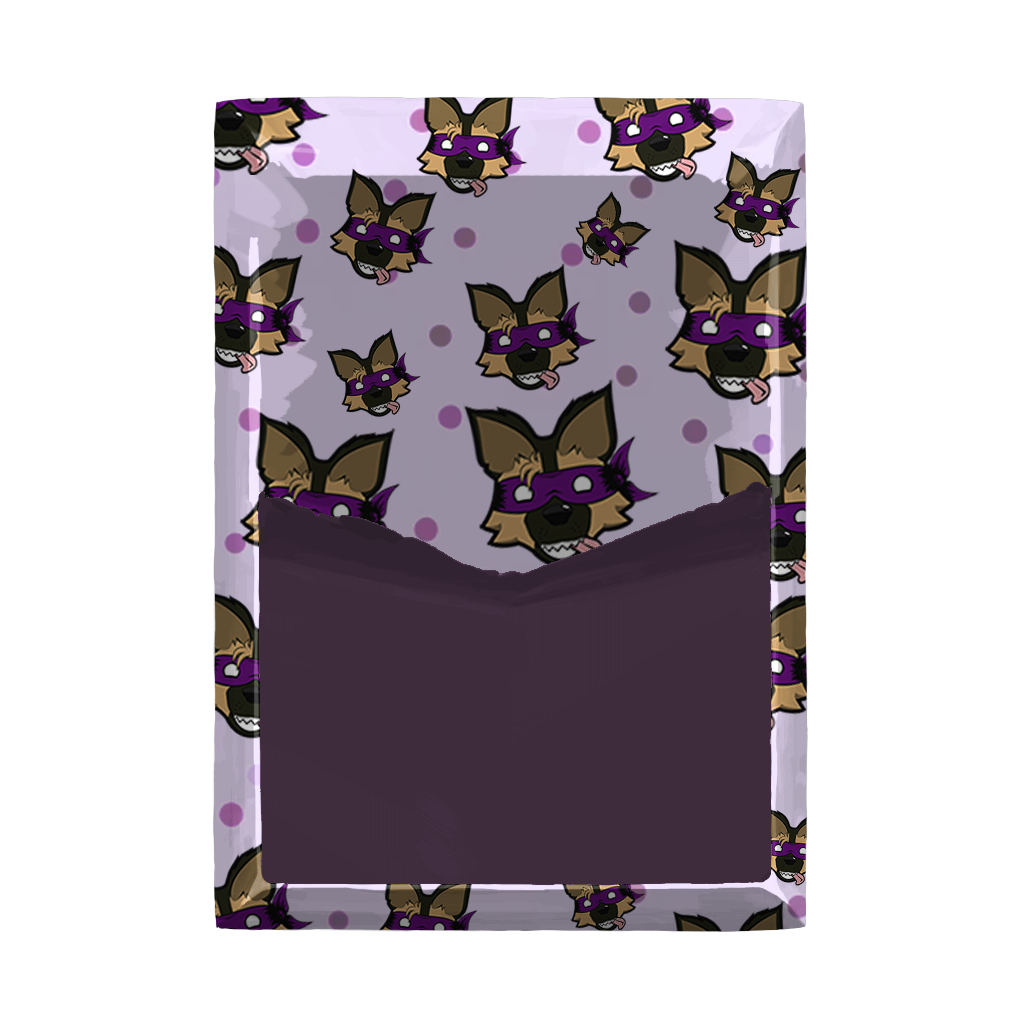
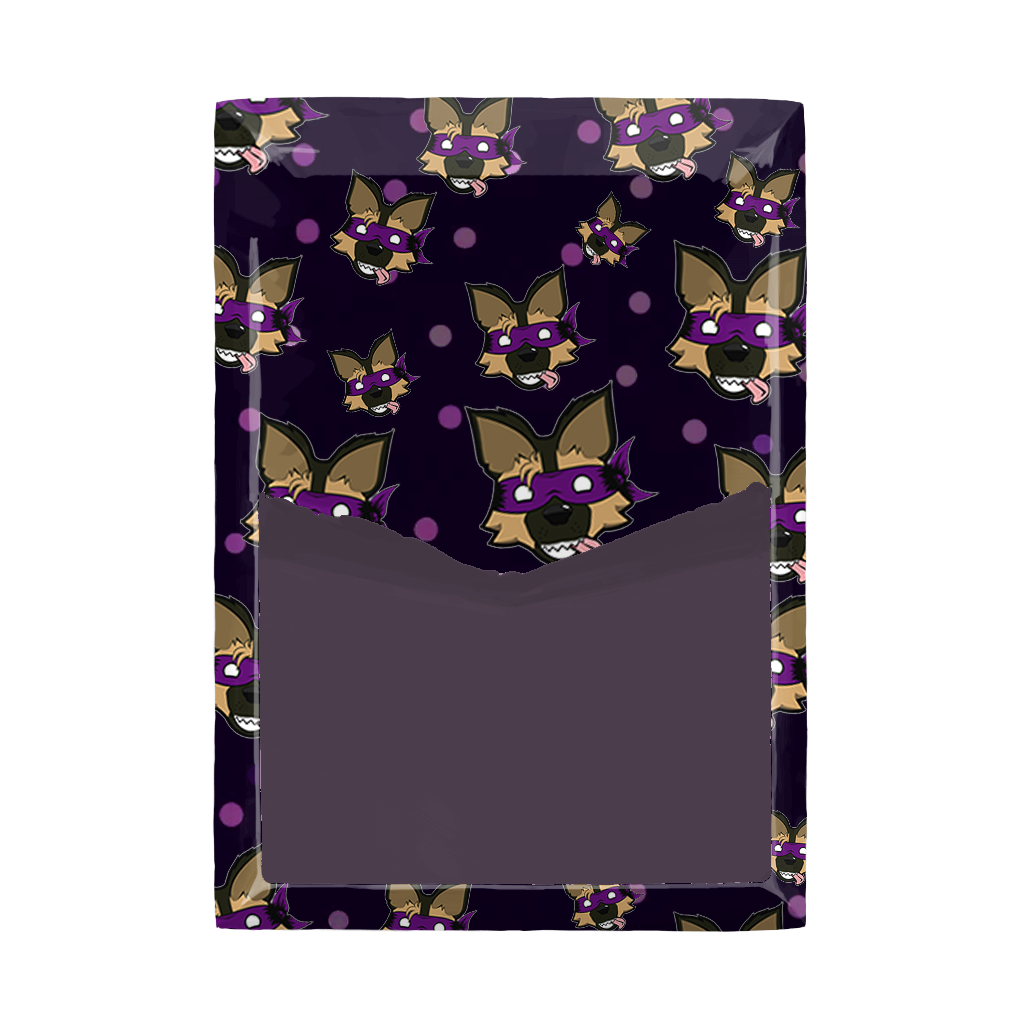
Pictures
I want card backs to work.

Changed region(s): [[0.1875, 0.0938, 0.8125, 0.9062]]

diff --git a/src/main/java/shadowtails/ModFile.java b/src/main/java/shadowtails/ModFile.java
@@ -63,14 +63,14 @@ public class ModFile implements
     public static final String SHOULDER1 = makeCharacterPath("mainChar/shoulder.png");
     public static final String SHOULDER2 = makeCharacterPath("mainChar/shoulder2.png");
     public static final String CORPSE = makeCharacterPath("mainChar/corpse.png");
-    private static final String ATTACK_S_ART = makeImagePath("512/attack.png");
-    private static final String SKILL_S_ART = makeImagePath("512/skill.png");
-    private static final String POWER_S_ART = makeImagePath("512/power.png");
+    private static String ATTACK_S_ART;
+    private static String SKILL_S_ART;
+    private static String POWER_S_ART;
+    private static String ATTACK_L_ART;
+    private static String SKILL_L_ART;
+    private static String POWER_L_ART;
     private static final String CARD_ENERGY_S = makeImagePath("512/energy.png");
     private static final String TEXT_ENERGY = makeImagePath("512/text_energy.png");
-    private static final String ATTACK_L_ART = makeImagePath("1024/attack.png");
-    private static final String SKILL_L_ART = makeImagePath("1024/skill.png");
-    private static final String POWER_L_ART = makeImagePath("1024/power.png");
     private static final String CARD_ENERGY_L = makeImagePath("1024/energy.png");
     private static final String CHARSELECT_BUTTON = makeImagePath("charSelect/charButton.png");
     private static final String CHARSELECT_PORTRAIT = makeImagePath("charSelect/charBG.png");
@@ -87,6 +87,32 @@ public class ModFile implements
         }
         return "eng";
     }
+    public static void setCardArtPaths(String cardPath) {
+        // Check the card path and set the art paths accordingly
+        if (cardPath.contains("adventurecat")) {
+            ATTACK_S_ART = makeImagePath("512/attack_cat.png");
+            SKILL_S_ART = makeImagePath("512/skill_cat.png");
+            POWER_S_ART = makeImagePath("512/power_cat.png");
+            ATTACK_L_ART = makeImagePath("1024/attack_cat2.png");
+            SKILL_L_ART = makeImagePath("1024/skill_cat2.png");
+            POWER_L_ART = makeImagePath("1024/power_cat2.png");
+        } else if (cardPath.contains("ninjapuppy")) {
+            ATTACK_S_ART = makeImagePath("512/attack_puppy.png");
+            SKILL_S_ART = makeImagePath("512/skill_puppy.png");
+            POWER_S_ART = makeImagePath("512/power_puppy.png");
+            ATTACK_L_ART = makeImagePath("1024/attack_puppy2.png");
+            SKILL_L_ART = makeImagePath("1024/skill_puppy2.png");
+            POWER_L_ART = makeImagePath("1024/power_puppy2.png");
+        } else {
+            ATTACK_S_ART = makeImagePath("512/attack.png");
+            SKILL_S_ART = makeImagePath("512/skill.png");
+            POWER_S_ART = makeImagePath("512/power.png");
+            ATTACK_L_ART = makeImagePath("1024/attack.png");
+            SKILL_L_ART = makeImagePath("1024/skill.png");
+            POWER_L_ART = makeImagePath("1024/power.png");
+        }
+    }
+
 
     public ModFile() {
         BaseMod.subscribe(this);

diff --git a/src/main/java/shadowtails/cards/ninjapuppy/StrikeNP.java b/src/main/java/shadowtails/cards/ninjapuppy/StrikeNP.java
@@ -14,7 +14,6 @@ public class StrikeNP extends AbstractEasyCard {
 
     public StrikeNP() {
         super(ID, 1, CardType.ATTACK, CardRarity.BASIC, CardTarget.ENEMY);
-        this.setBackgroundTexture("shadowtailsResources/images/512/attack_puppy.png", "shadowtailsResources/images/1024/attack_puppy2.png");
         setDamage(6, +3);
         tags.add(CardTags.STRIKE);
         tags.add(CardTags.STARTER_STRIKE);

diff --git a/src/main/java/shadowtails/cards/adventurecat/StrikeAC.java b/src/main/java/shadowtails/cards/adventurecat/StrikeAC.java
@@ -14,7 +14,6 @@ public class StrikeAC extends AbstractEasyCard {
 
     public StrikeAC() {
         super(ID, 1, CardType.ATTACK, CardRarity.BASIC, CardTarget.ENEMY);
-        this.setBackgroundTexture("shadowtailsResources/images/512/attack_cat.png", "shadowtailsResources/images/1024/attack_cat2.png");
         setDamage(6, +3);
         tags.add(CardTags.STRIKE);
         tags.add(CardTags.STARTER_STRIKE);

diff --git a/src/main/java/shadowtails/cards/ninjapuppy/DefendNP.java b/src/main/java/shadowtails/cards/ninjapuppy/DefendNP.java
@@ -13,7 +13,6 @@ public class DefendNP extends AbstractEasyCard {
 
     public DefendNP() {
         super(ID, 1, CardType.SKILL, CardRarity.BASIC, CardTarget.SELF);
-        this.setBackgroundTexture("shadowtailsResources/images/512/skill_puppy.png", "shadowtailsResources/images/1024/skill_puppy2.png");
         setBlock(5, +3);
         tags.add(CardTags.STARTER_DEFEND);
         tags.add(CustomTags.PUPPY);

diff --git a/src/main/java/shadowtails/cards/adventurecat/ArrowShot.java b/src/main/java/shadowtails/cards/adventurecat/ArrowShot.java
@@ -16,7 +16,6 @@ public class ArrowShot extends AbstractEasyCard {
 
     public ArrowShot() {
         super(ID, 1, CardType.ATTACK, CardRarity.BASIC, CardTarget.ENEMY);
-        this.setBackgroundTexture("shadowtailsResources/images/512/attack_cat.png", "shadowtailsResources/images/1024/attack_cat2.png");
         baseDamage = 9;
         baseMagicNumber = magicNumber = 1;
         tags.add(CustomTags.CAT);

diff --git a/src/main/java/shadowtails/cards/adventurecat/DefendAC.java b/src/main/java/shadowtails/cards/adventurecat/DefendAC.java
@@ -13,7 +13,6 @@ public class DefendAC extends AbstractEasyCard {
 
     public DefendAC() {
         super(ID, 1, CardType.SKILL, CardRarity.BASIC, CardTarget.SELF);
-        this.setBackgroundTexture("shadowtailsResources/images/512/skill_cat.png", "shadowtailsResources/images/1024/skill_cat2.png");
         setBlock(5, +3);
         tags.add(CardTags.STARTER_DEFEND);
         tags.add(CustomTags.CAT);
